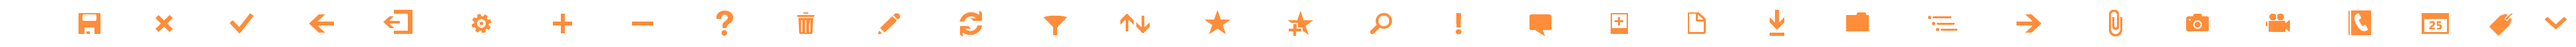
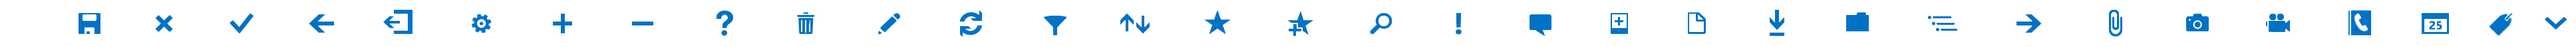
Basic branding

diff --git a/Development/MeerkatAdmin_MH/MeerkatAdmin_2/MeerkatAdmin_2.HTMLClient/Content/meerkat.css b/Development/MeerkatAdmin_MH/MeerkatAdmin_2/MeerkatAdmin_2.HTMLClient/Content/meerkat.css
@@ -658,7 +658,7 @@ a.ui-link-inherit {
 .msls-large-icon .ui-icon,
 .msls-large-icon .ui-icon-searchfield:after {
     background-image: url(images/msls-blue-icons-36.png)!important;
-    border-color: #E0701E;
+    border-color: #6DC1E8;
 }
 
 .msls-large-icon.ui-btn-hover-a .ui-icon {

diff --git a/Development/MeerkatAdmin_MH/MeerkatAdmin_2/MeerkatAdmin_2.Server/Properties/AssemblyInfo.cs b/Development/MeerkatAdmin_MH/MeerkatAdmin_2/MeerkatAdmin_2.Server/Properties/AssemblyInfo.cs
@@ -15,5 +15,5 @@ using System.Runtime.InteropServices;
 
 [assembly: Guid("75cbc317-5f77-45b1-a02f-11a91f602aa4")]
 
-[assembly: AssemblyVersion("2.30.127.0")]
+[assembly: AssemblyVersion("2.30.129.0")]
 [assembly: AssemblyFileVersion("0.3.0.0")]
